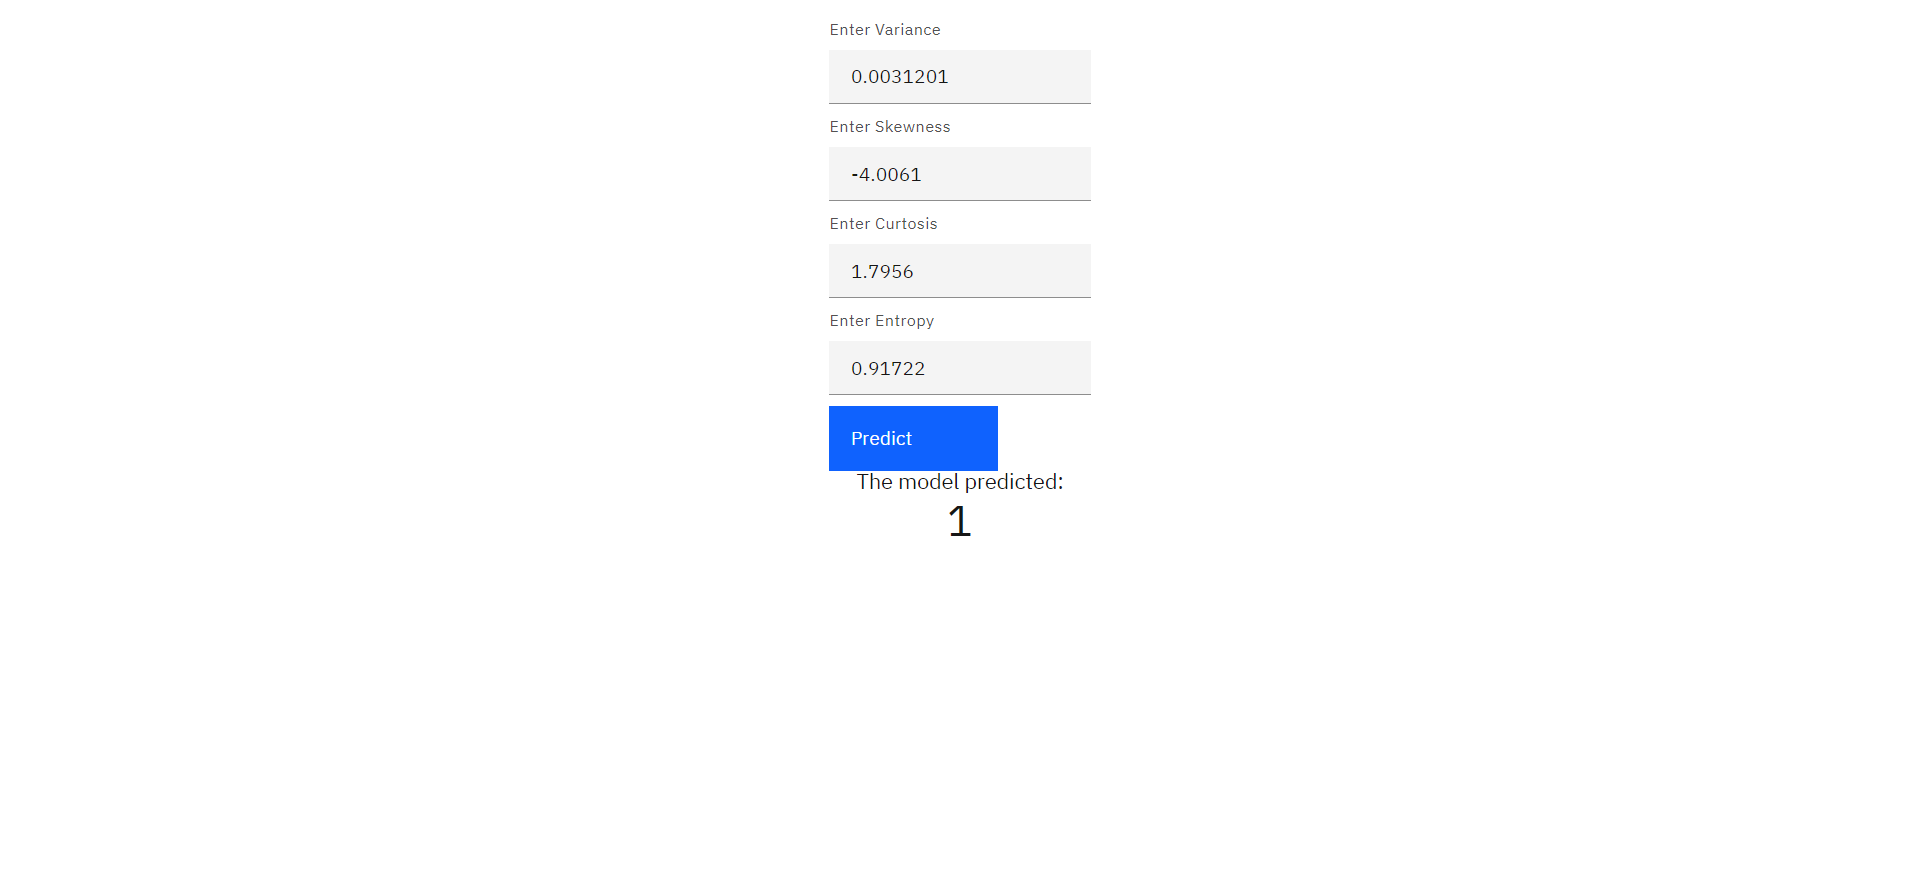
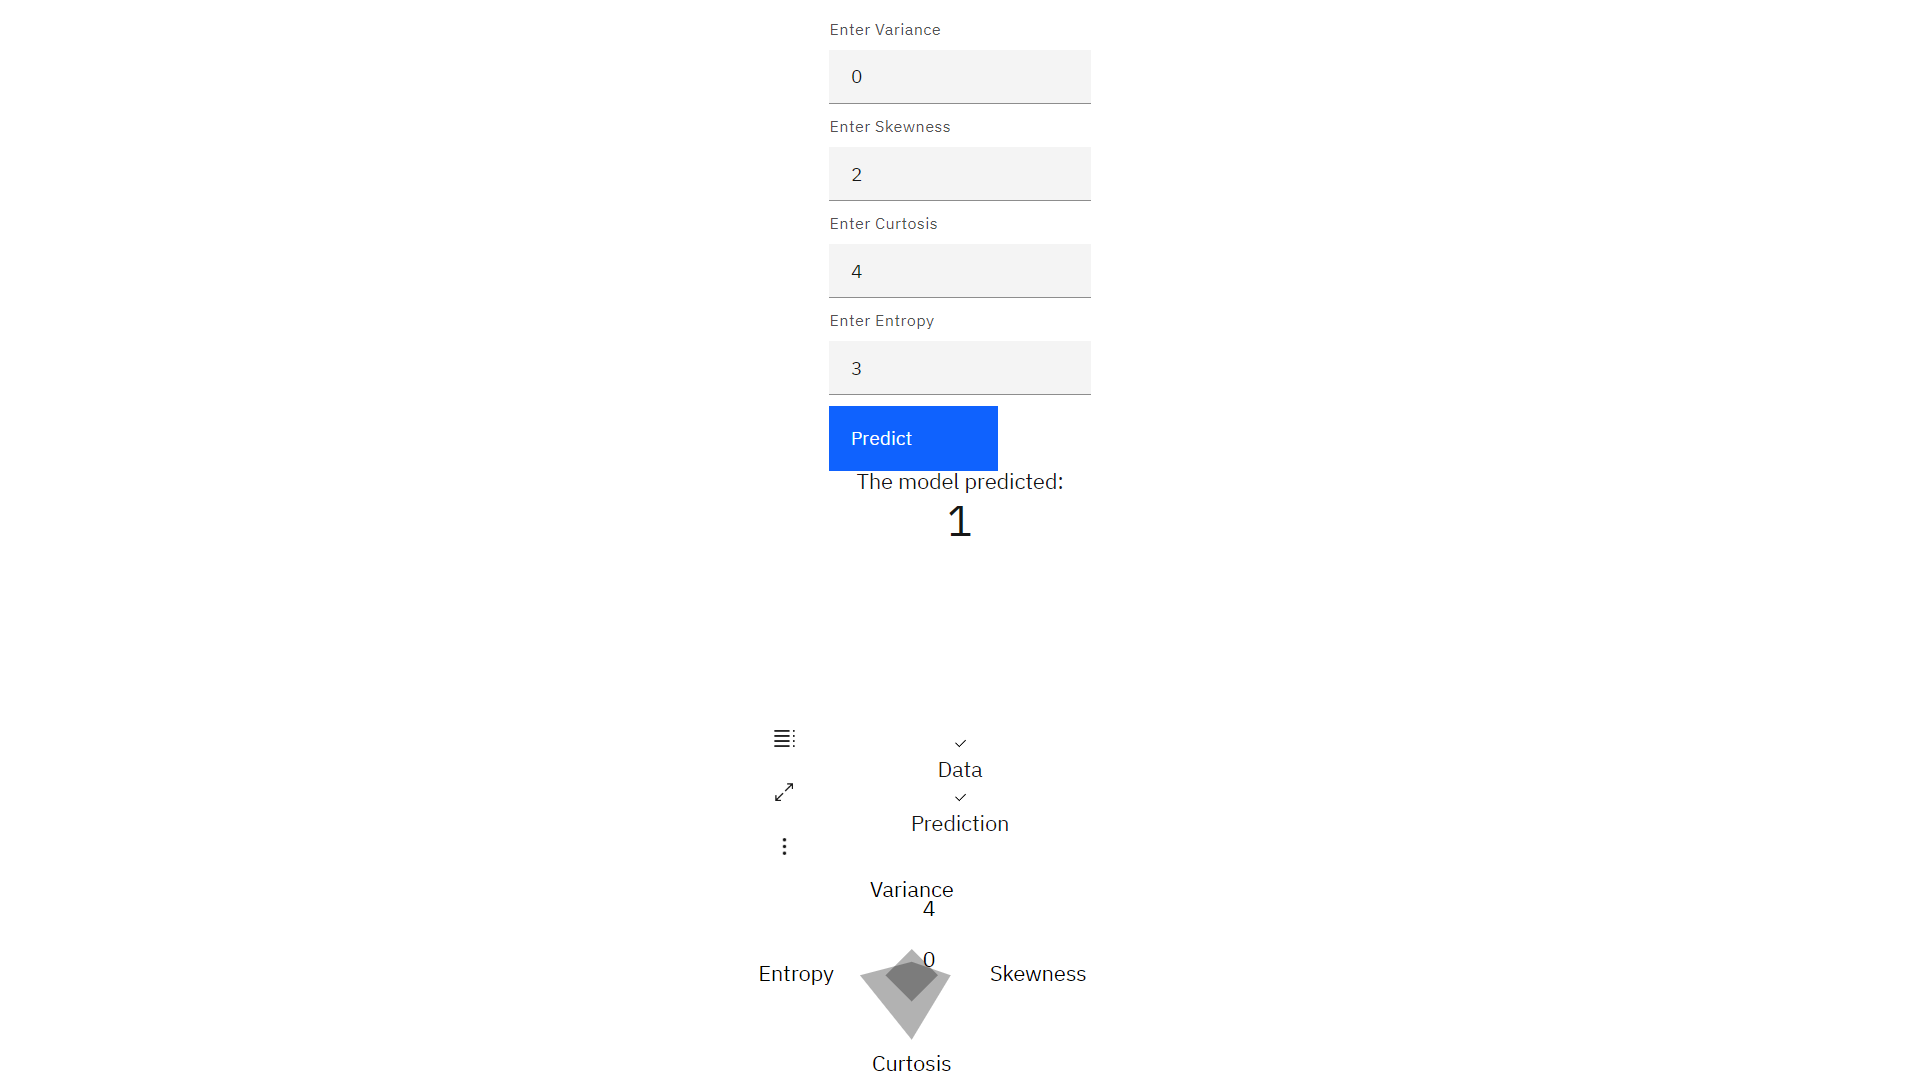
Push frontend files

diff --git a/client-frontend/src/App.js b/client-frontend/src/App.js
@@ -8,6 +8,7 @@ import {
   Button,
   Loading
 } from "carbon-components-react";
+import RadarChart from './component/dataviz/RadarChart';
 
 function App() {
   const [varianceValue, setVarianceValue] = useState('');
@@ -81,9 +82,20 @@ function App() {
           {loading && <Loading description='Loading...' />} {/* Display loading indicator if loading state is true */}
           {predictions !== null && !loading && (
             <div>
-              The model predicted:
+              <div>
+                The model predicted:
+              </div>
               <div className='predictionResult'>
                 {parseFloat(predictions)}
+              </div>
+              <div className='chartContainer'>
+                <RadarChart
+                variance={parseFloat(varianceValue)}
+                skewness={parseFloat(skewnessValue)}
+                curtosis={parseFloat(curtosisValue)}
+                entropy={parseFloat(entropyValue)}
+                prediction={parseFloat(predictions)}
+              />
               </div>
             </div>
           )}

diff --git a/client-frontend/src/component/dataviz/RadarChart.js b/client-frontend/src/component/dataviz/RadarChart.js
@@ -1,0 +1,37 @@
+import React from "react";
+import { RadarChart as CarbonRadarChart } from "@carbon/charts-react";
+import { rgb } from "d3";
+
+const RadarChart = ({ variance, skewness, curtosis, entropy, prediction }) => {
+  const data = {
+    labels: ["Variance", "Skewness", "Curtosis", "Entropy"],
+    datasets: [
+      {
+        label: "Data",
+        data: [variance, skewness, curtosis, entropy],
+      },
+      {
+        label: "Prediction",
+        data: [prediction, prediction, prediction, prediction],
+      },
+    ],
+  };
+
+  const options = {
+    scales: {
+      ticks: {
+        beginAtZero: true,
+        max: 10,
+      },
+    },
+  };
+
+  return (
+    <div>
+      <CarbonRadarChart data={data} options={options} />
+    </div>
+  );
+};
+
+export default RadarChart;
+

diff --git a/client-frontend/src/index.scss b/client-frontend/src/index.scss
@@ -22,3 +22,24 @@ form{
     font-size: xx-large;
     text-align: center;
 }
+.chartContainer {
+    display: inline-block;
+    margin: 0 auto;
+}
+  
+/* Add these styles to make the RadarChart colorful */
+.chartContainer .carbon--chart-wrapper {
+background-color: rgba(0, 123, 255, 0.1); /* Background color */
+}
+
+.chartContainer .carbon--chart-axis-label {
+fill: #333; /* Axis label color */
+}
+
+.chartContainer .carbon--chart-axis-tick {
+stroke: #333; /* Axis tick color */
+}
+
+.chartContainer .carbon--legend-item {
+color: #333; /* Legend item color */
+}
